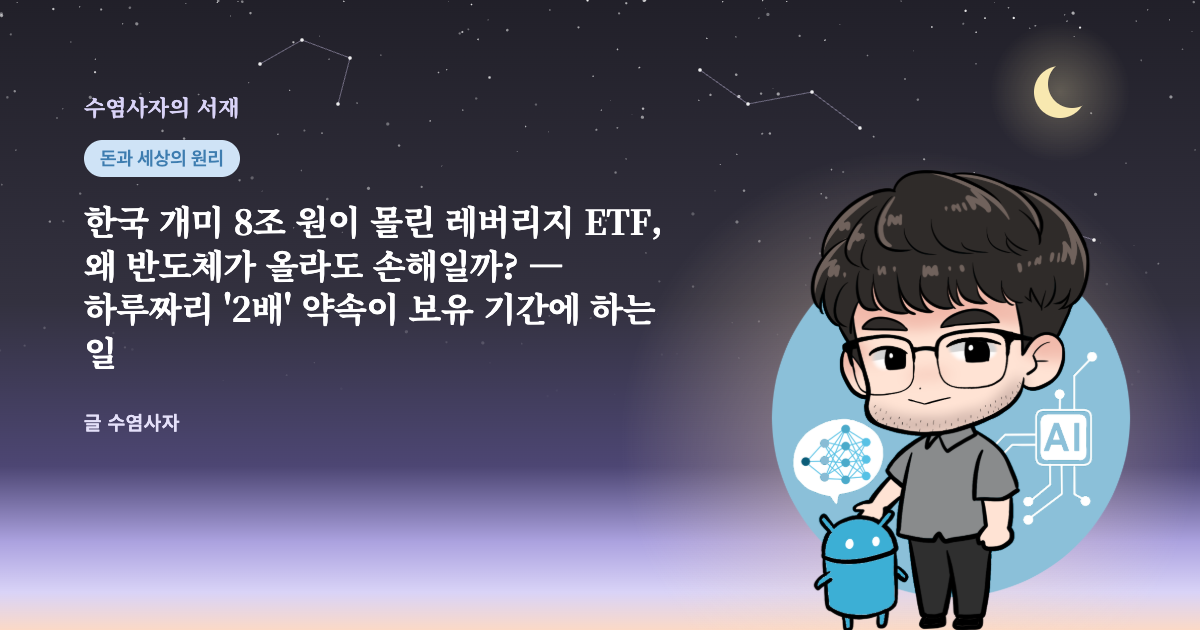
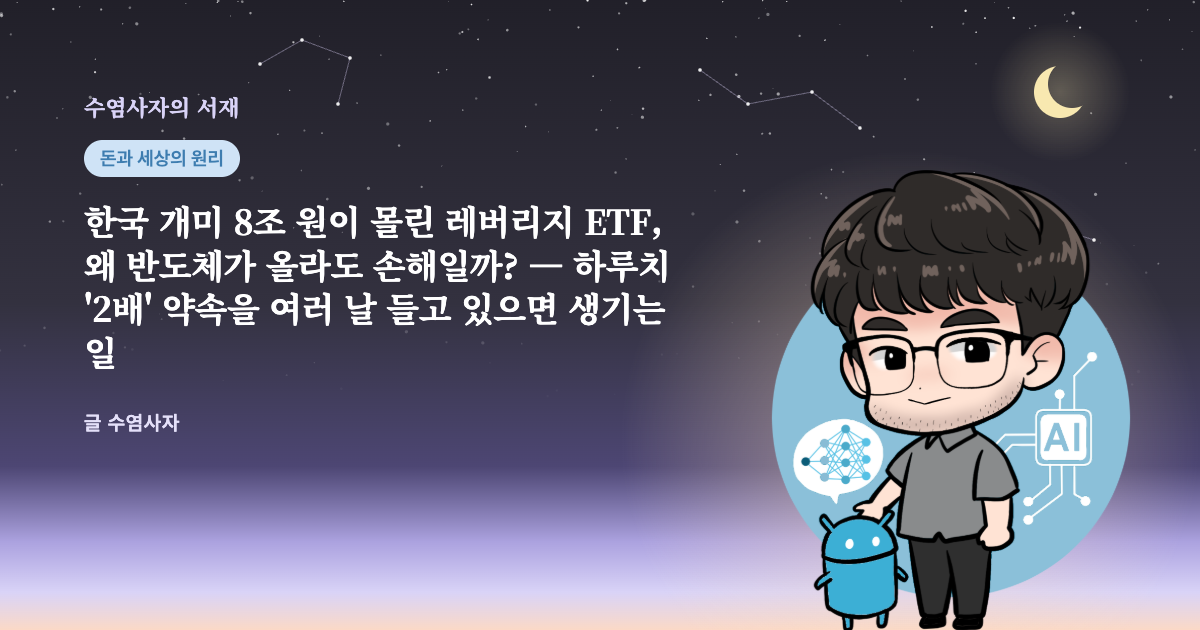
post: 레버리지 두 편 계산을 한 단계씩 풀어 쓰고 '길·경로'·'하루의 2배' 표현과 부제를 분명히 함
Claude-Session: https://claude.ai/code/session_01J36DQQsi1iZDy94NMGj8jH

Changed region(s): [[0.0617, 0.3921, 0.555, 0.5127]]

diff --git a/posts/leveraged-etf-daily/post.html b/posts/leveraged-etf-daily/post.html
@@ -3,7 +3,7 @@
 <head>
 <meta charset="utf-8">
 <meta name="viewport" content="width=device-width, initial-scale=1">
-<title>한국 개미 8조 원이 몰린 레버리지 ETF, 왜 반도체가 올라도 손해일까? — 하루짜리 '2배' 약속이 보유 기간에 하는 일</title>
+<title>한국 개미 8조 원이 몰린 레버리지 ETF, 왜 반도체가 올라도 손해일까? — 하루치 '2배' 약속을 여러 날 들고 있으면 생기는 일</title>
 <meta name="description" content="방향을 맞히고도 레버리지 ETF에서 돈을 잃는 이유는 무엇일까요? 2026년 한국 단일종목 레버리지 ETF 사태를 사례로, 일일 재조정이 개인의 계좌와 시장 전체를 어떻게 흔드는지 원 자료와 계산으로 풀어 봅니다.">
 <link rel="stylesheet" href="https://cdn.jsdelivr.net/gh/orioncactus/pretendard/dist/web/static/pretendard.css">
 <style>
@@ -57,20 +57,20 @@
 </head>
 <body>
 <article>
-<h1>한국 개미 8조 원이 몰린 레버리지 ETF, 왜 반도체가 올라도 손해일까? — 하루짜리 '2배' 약속이 보유 기간에 하는 일</h1>
+<h1>한국 개미 8조 원이 몰린 레버리지 ETF, 왜 반도체가 올라도 손해일까? — 하루치 '2배' 약속을 여러 날 들고 있으면 생기는 일</h1>
 <div class="meta">2026-11-01 · 약 11분 분량 · 글 수염사자</div>
 
 <p class="lead-quote">"SK하이닉스는 어차피 오를 거잖아요. 그럼 2배짜리를 사면 두 배로 버는 거죠."</p>
 <p>2026년 여름, 이 말은 한국에서 가장 많이 실행된 투자 논리였을 겁니다. 5월 27일 삼성전자와 SK하이닉스의 하루 수익률을 두 배로 따라가는 단일종목 레버리지 상품이 처음 상장됐고, 상장 후 12거래일 동안 개인투자자는 8조 2,000억 원어치를 순매수했습니다. 같은 기간 순매수의 92.7%가 개인이었습니다<sup class="fn"><a id="cite-1" href="#ref-1">[1]</a></sup>.</p>
 <p>방향도 맞았습니다. 코스피는 6월 19일 장중 9,385.59로 사상 최고치를 찍었습니다<sup class="fn"><a id="cite-2" href="#ref-2">[2]</a></sup>. 그런데 한 달도 안 돼 상황이 뒤집혔습니다. 골드만삭스 트레이딩 데스크는 7월 13일까지 120만 개가 넘는 개인 레버리지 계좌에 마진콜이 걸렸고, 그중 32만~36만 개는 강제로 청산됐다고 추정했습니다<sup class="fn"><a id="cite-3" href="#ref-3">[3]</a></sup>. 금융감독원 자료로는 상장일부터 8월 14일까지 이 상품들에서 개인이 본 손실이 실현·평가손을 합쳐 약 6조 3,000억 원이었습니다<sup class="fn"><a id="cite-4" href="#ref-4">[4]</a></sup>.</p>
 <p>그리고 결정적으로 — <strong>이들 상당수는 "반도체가 AI 붐의 중심"이라는 큰 그림에서 틀리지 않았습니다.</strong> 상품이 약속하는 '2배'가 무엇의 2배인지를 놓쳤을 뿐입니다.</p>
-<p>이 글은 레버리지 ETF를 사 봤거나 살까 고민 중인 분들을 위해 씁니다. 결론부터 말씀드리면, 이 상품의 2배는 '내 보유 기간의 2배'가 아니라 '오늘 하루의 2배'이고, 그 하루가 쌓이는 방식 때문에 같은 방향을 맞혀도 결과가 크게 달라집니다. 이 상품의 정식 이름에 답이 들어 있습니다. <strong>일일 재조정 레버리지 ETF(Daily Leveraged ETF)</strong>입니다.</p>
+<p>이 글은 레버리지 ETF를 사 봤거나 살까 고민 중인 분들을 위해 씁니다. 결론부터 말씀드리면, 이 상품이 약속하는 2배는 '내가 들고 있는 동안 주식이 오른 만큼의 2배'가 아닙니다. 약속은 '오늘 하루 주식이 오르내린 만큼의 2배'로 한정됩니다. 주식이 오늘 3% 오르면 상품은 오늘 6% 오르고, 내일 2% 내리면 상품은 내일 4% 내립니다. 그 약속은 매일 그날 하루치로 끝납니다. 그래서 여러 날 들고 있으면 하루치 2배 결과가 날마다 곱해져 쌓이는데, 그렇게 쌓인 합계는 주식이 그 기간 전체에 움직인 폭의 2배와 전혀 다른 숫자가 될 수 있습니다. 주식이 첫날 10% 내리고 둘째 날 10% 오르면 주식은 1%를 잃지만 상품은 4%를 잃습니다. 방향을 맞혀도 결과가 달라지는 이유가 여기에 있습니다. 이 상품의 정식 이름에 답이 들어 있습니다. <strong>일일 재조정 레버리지 ETF(Daily Leveraged ETF)</strong>입니다.</p>
 <p>금융 유튜버 패트릭 보일이 7월 18일 이 사태를 다룬 영상 「How to Be Right and Lose Everything」을 출발점으로 삼았고, 영상 이후 석 달 동안 벌어진 일도 함께 짚습니다.</p>
 
 <h2>'2배 상품'과 '2배 수익'은 다릅니다</h2>
-<p>질문을 바꿔 보겠습니다. "이 주식이 얼마나 오를까"가 아니라 "이 주식이 <em>어떤 길로</em> 오를까"입니다. 레버리지 ETF의 결과는 도착 지점보다 가는 길에 더 크게 좌우됩니다.</p>
-<p>미국 증권거래위원회(SEC)의 투자자 안내문에 나오는 예가 가장 간단합니다. 어떤 지수가 첫날 10% 떨어지고 둘째 날 10% 오르면, 이틀 뒤 지수는 1% 손실입니다. 이 지수를 하루 2배로 따라가는 ETF는 첫날 20% 떨어지고 둘째 날 20% 올라, 이틀 뒤 4% 손실입니다. 지수 손실의 2배가 아니라 4배입니다<sup class="fn"><a id="cite-5" href="#ref-5">[5]</a></sup>. 같은 안내문은 실제 사례도 듭니다. 넉 달 동안 지수가 2% 오르는 사이 그 지수의 2배 ETF는 6% 떨어졌습니다<sup class="fn"><a id="cite-5b" href="#ref-5">[5]</a></sup>.</p>
-<p>이틀로는 감이 덜 오니 열흘로 늘려 보겠습니다. 주가가 하루 10% 오르고 다음 날 10% 내리기를 열흘 동안 되풀이한다고 해 봅시다. 하루 10%씩 출렁이는 건 2026년 여름의 SK하이닉스에는 특별한 일이 아니었습니다.</p>
+<p>질문을 바꿔 보겠습니다. "이 주식이 얼마나 오를까"가 아니라 "이 주식이 거기까지 가는 동안 <em>날마다 어떻게 오르내릴까</em>"입니다. 같은 가격에 도착하더라도, 매일 조금씩 꾸준히 오른 경우와 크게 올랐다 크게 떨어지기를 되풀이하며 오른 경우는 전혀 다릅니다. 주식만 들고 있었다면 두 경우의 결과가 같지만, 레버리지 ETF는 도착한 가격보다 날마다 오르내린 순서와 폭에 더 크게 좌우되어 두 경우의 결과가 크게 벌어집니다.</p>
+<p>미국 증권거래위원회(SEC)의 투자자 안내문에 나오는 예가 가장 간단합니다. 어떤 지수가 첫날 10% 떨어지고 둘째 날 10% 오르면, 이틀 뒤 지수는 1% 손실입니다. 100원으로 따라가 보면 첫날 10원이 빠져 90원이 되고, 둘째 날은 그 90원의 10%인 9원이 붙어 99원이 됩니다. 100원이 아니라 99원이니 1% 손실입니다. 이 지수를 하루 2배로 따라가는 ETF는 첫날 20% 떨어지고 둘째 날 20% 오릅니다. 100원이 80원이 됐다가, 80원의 20%인 16원이 붙어 96원이 됩니다. 이틀 뒤 4% 손실입니다. 지수 손실의 2배가 아니라 4배입니다<sup class="fn"><a id="cite-5" href="#ref-5">[5]</a></sup>. 같은 안내문은 실제 사례도 듭니다. 넉 달 동안 지수가 2% 오르는 사이 그 지수의 2배 ETF는 6% 떨어졌습니다<sup class="fn"><a id="cite-5b" href="#ref-5">[5]</a></sup>.</p>
+<p>이틀로는 감이 덜 오니 열흘로 늘려 보겠습니다. 주가가 하루 10% 오르고 다음 날 10% 내리기를 열흘 동안 되풀이한다고 해 봅시다. 오르고 내리는 순서만 바뀌었을 뿐 방금 본 이틀짜리 계산과 같습니다. 100원이 110원이 됐다가 110원의 10%인 11원이 빠져 99원이 되니, 이틀마다 주식은 1%씩 줄고 2배 ETF는 4%씩 줄어듭니다. 그 이틀이 다섯 번 되풀이되면 열흘 뒤 주식은 약 5%, ETF는 약 18%가 줄어 있습니다. 하루 10%씩 출렁이는 건 2026년 여름의 SK하이닉스에는 특별한 일이 아니었습니다.</p>
 <figure>
   <svg xmlns="http://www.w3.org/2000/svg" viewBox="0 0 680 380" width="100%" role="img" aria-labelledby="t-1 d-1" font-family="'Pretendard','Noto Sans KR','Noto Sans CJK KR','Apple SD Gothic Neo',sans-serif">
 <title id="t-1">하루씩 ±10% 오가는 장, 열흘 뒤</title>
@@ -131,12 +131,14 @@
   <figcaption>기초 주식이 하루 +10%, 다음 날 −10%를 열흘 동안 되풀이하면 주식은 약 5% 줄지만, 매일 2배를 맞추는 ETF는 그 두 배인 10%가 아니라 약 18% 줄어듭니다. 그림: 직접 계산해 제작(수수료 제외).</figcaption>
 </figure>
 <p>비유하자면 레버리지 ETF는 <strong>매일 밤 0으로 돌아가는 계기판</strong>입니다. 오늘 2배를 정확히 맞추고 나면, 내일은 오늘 끝난 자리에서 다시 2배를 시작합니다. 어제까지의 손익은 기억하지 않습니다. 그러니 주가가 제자리로 돌아와도 ETF는 제자리로 돌아오지 않습니다.</p>
-<p>반대 경우도 있습니다. 주가가 5일 연속 3%씩 오르면 주식은 약 15.9% 오르고, 2배 ETF는 약 33.8% 올라 2배(31.9%)보다 조금 더 법니다. 직접 계산한 값입니다. <strong>한 방향으로 곧게 가는 장에서는 2배보다 더, 오르내리는 장에서는 2배보다 훨씬 덜</strong> 벌게 됩니다. 문제는 2배짜리를 살 만큼 출렁이는 주식이 곧게 가는 일은 드물다는 점입니다.</p>
+<p>반대 경우도 있습니다. 주가가 5일 연속 3%씩 오르면 주식은 약 15.9% 오릅니다. 3%씩 다섯 번이면 15%일 것 같지만, 어제 오른 돈에도 오늘 3%가 붙기 때문에 조금 더 됩니다. 같은 닷새 동안 2배 ETF는 하루 6%씩 올라 약 33.8%가 되어, 주식 수익의 2배(31.9%)보다 조금 더 법니다. 직접 계산한 값입니다. <strong>한 방향으로 곧게 가는 장에서는 2배보다 더, 오르내리는 장에서는 2배보다 훨씬 덜</strong> 벌게 됩니다. 문제는 2배짜리를 살 만큼 출렁이는 주식이 곧게 가는 일은 드물다는 점입니다.</p>
 
 <h2>왜 생기나 — 매일 저녁 '오르면 사고 내리면 파는' 기계</h2>
 <p>교과서적인 답은 "복리 때문"입니다. 틀린 말은 아닌데, 이것만으로는 시장 전체가 왜 흔들렸는지까지 설명되지 않습니다. 열쇠는 이 펀드가 2배를 유지하는 방법에 있습니다.</p>
-<p>자기 돈 100에 주식 노출 200을 가진 2배 펀드를 생각해 보겠습니다. 주가가 10% 오르면 노출은 220, 펀드 가치는 120이 되어 비율이 1.83배로 떨어집니다. 내일도 2배를 맞추려면 오늘 장 마감에 20어치를 더 사야 합니다. 주가가 10% 내리면 노출은 180, 펀드 가치는 80이라 비율이 2.25배로 올라가고, 20어치를 팔아야 합니다. <strong>오르면 사고, 내리면 파는 방향이 계산식 자체에 들어 있습니다.</strong></p>
-<p>민더 쳉과 아난스 마다반은 2009년 논문에서 이 매일의 재조정이 장 마감 무렵 변동성을 키울 수 있고, 수익 구조 안에 경로에 따라 값이 달라지는 옵션 같은 성질이 숨어 있어 장기 보유자에게는 가치를 깎을 수 있다고 분석했습니다. 그래서 거래 비용까지 감안하면 장기 투자자에게 맞지 않는 상품이라는 결론을 냈습니다<sup class="fn"><a id="cite-6" href="#ref-6">[6]</a></sup>.</p>
+<p>자기 돈 100원을 투자한다고 가정해 보겠습니다. 2배 펀드는 이 100원으로 200원어치 주식을 들고 있어야 합니다. 모자라는 100원은 펀드가 빌려 온 돈이라고 치겠습니다. 실제 상품은 돈을 빌리는 대신 스와프 같은 파생상품으로 같은 효과를 내지만, 산수는 똑같습니다. 그러니 출발점은 이렇습니다. 주식 200원어치, 그중 내 돈 100원, 빚 100원. 주식 200원을 내 돈 100원으로 나누면 2배, 이것이 펀드가 매일 저녁 다시 맞춰야 하는 비율입니다.</p>
+<p>주가가 10% 올랐다고 해 봅시다. 200원어치 주식은 220원어치가 됩니다. 오른 20원은 전부 내 몫입니다. 빚 100원은 주가가 올라도 100원 그대로이기 때문입니다. 그래서 내 돈은 100원에서 120원이 됩니다. 이제 비율을 다시 재 보면 주식 220원을 내 돈 120원으로 나눈 약 1.83배, 2배에서 모자랍니다. 내일도 2배를 맞추려면 주식이 내 돈 120원의 2배인 240원어치가 되어야 하는데, 지금은 220원어치뿐이니 20원어치가 부족합니다. 펀드는 오늘 장 마감에 20원어치 주식을 더 사야 합니다. 주가가 오른 날 사는 겁니다.</p>
+<p>반대로 주가가 10% 내렸다고 해 봅시다. 200원어치 주식은 180원어치가 됩니다. 줄어든 20원도 전부 내 몫입니다. 빚은 여전히 100원이니 내 돈은 100원에서 80원이 됩니다. 비율은 주식 180원을 내 돈 80원으로 나눈 2.25배, 이번에는 2배를 넘칩니다. 2배로 돌려놓으려면 주식이 내 돈 80원의 2배인 160원어치여야 하는데, 지금은 180원어치이니 20원어치가 남습니다. 펀드는 장 마감에 20원어치를 팔아야 합니다. 주가가 내린 날 파는 겁니다. <strong>오르면 사고, 내리면 파는 방향이 계산식 자체에 들어 있습니다.</strong></p>
+<p>민더 쳉과 아난스 마다반은 2009년 논문에서 이 매일의 재조정이 장 마감 무렵 변동성을 키울 수 있고, 수익 구조 안에 날마다 오르내린 순서와 폭에 따라 값이 달라지는 옵션 같은 성질이 숨어 있어 장기 보유자에게는 가치를 깎을 수 있다고 분석했습니다. 그래서 거래 비용까지 감안하면 장기 투자자에게 맞지 않는 상품이라는 결론을 냈습니다<sup class="fn"><a id="cite-6" href="#ref-6">[6]</a></sup>.</p>
 <div class="key"><span class="label">핵심 —</span> 일일 레버리지 ETF의 손실은 운이 나빠서가 아니라 설계에서 나옵니다. 매일 2배를 다시 맞추기 때문에 출렁일수록 손실이 쌓이고, 그 재조정 매매가 다시 출렁임을 키웁니다.</div>
 <p>출렁임이 수익을 갉아먹는 원리, 이른바 변동성 끌림은 앞선 글 「방향을 맞힌 450억 달러 AI 펀드는 왜 한 달 만에 무너졌을까?」에서 따로 다뤘습니다. 이 글에서는 그 원리가 한 나라 주식시장 전체에 어떻게 번졌는지를 보겠습니다.</p>
 
@@ -251,7 +253,7 @@
   </tbody>
 </table>
 <div class="key"><span class="label">핵심 —</span> 이 표에서 읽어야 할 것은 '무엇을 살까'가 아닙니다. 같은 SK하이닉스라도 주식으로 들고 있는 것과 일일 2배 상품을 빚으로 들고 있는 것은 전혀 다른 내기입니다.</div>
-<div class="caution">미리 말씀드려야 할 게 있습니다. 위 열흘짜리 그림과 5일 연속 상승 예시는 원리를 보이려고 만든 가상의 경로입니다. 실제 상품은 운용 보수, 스와프 비용, 시장 가격과 순자산가치의 차이 때문에 계산보다 조금씩 더 불리하게 움직입니다.</div>
+<div class="caution">미리 말씀드려야 할 게 있습니다. 위 열흘짜리 그림과 5일 연속 상승 예시는 원리를 보이려고 지어낸 가상의 오르내림입니다. 실제 상품은 운용 보수, 스와프 비용, 시장 가격과 순자산가치의 차이 때문에 계산보다 조금씩 더 불리하게 움직입니다.</div>
 
 <section class="expert-note">
   <h2>필자 한마디</h2>

diff --git a/posts/volatility-drag/post.html b/posts/volatility-drag/post.html
@@ -62,7 +62,7 @@
 
 <p class="lead-quote">"AI는 결국 오른다잖아요. 그러면 빚을 내서라도 더 사는 게 맞지 않나요?"</p>
 <p>AI 이야기가 나오는 자리라면 한 번쯤 들어 봤을 말입니다. 틀린 말처럼 들리지도 않습니다. 오를 게 확실하다면 더 많이 사는 게 이득이고, 더 많이 사려면 돈을 빌리면 되니까요.</p>
-<p>2026년 여름, 이 논리를 가장 크게, 가장 정교하게 실행한 사람이 있었습니다. 2024년 6월 AI의 미래를 다룬 165쪽짜리 에세이 「Situational Awareness」로 이름을 알린 레오폴드 아셴브레너입니다. 에세이 제목을 그대로 딴 그의 헤지펀드는 2026년 7월 초 운용 자산이 약 450억 달러까지 불었습니다<sup class="fn"><a id="cite-1" href="#ref-1">[1]</a></sup>. 7월 24일 투자자 편지에 적힌 상반기 순수익은 439%였습니다<sup class="fn"><a id="cite-2" href="#ref-2">[2]</a></sup>. 1억 원을 넣었다면 반년 만에 5억 3,900만 원이 됐다는 뜻입니다.</p>
+<p>2026년 여름, 이 논리를 가장 크게, 가장 정교하게 실행한 사람이 있었습니다. 2024년 6월 AI의 미래를 다룬 165쪽짜리 에세이 「Situational Awareness」로 이름을 알린 레오폴드 아셴브레너입니다. 에세이 제목을 그대로 딴 그의 헤지펀드는 2026년 7월 초 운용 자산이 약 450억 달러까지 불었습니다<sup class="fn"><a id="cite-1" href="#ref-1">[1]</a></sup>. 7월 24일 투자자 편지에 적힌 상반기 순수익은 439%였습니다<sup class="fn"><a id="cite-2" href="#ref-2">[2]</a></sup>. 수익 439%는 원금에 더해 원금의 4.39배를 더 벌었다는 뜻이니, 돈이 5.39배가 된 셈입니다. 1억 원을 넣었다면 반년 만에 5억 3,900만 원이 됐다는 뜻입니다.</p>
 <p>그리고 7월 한 달 동안 펀드는 가치의 약 3분의 2를 잃었습니다. 자기 돈 1달러당 약 3달러를 빌려 투자한 상태였습니다<sup class="fn"><a id="cite-3" href="#ref-3">[3]</a></sup>. 같은 시기 미국 S&amp;P 500 지수는 사상 최고치 근처에 머물러 있었습니다<sup class="fn"><a id="cite-4" href="#ref-4">[4]</a></sup>.</p>
 <p>그리고 결정적으로 — <strong>AI가 결국 크게 성장한다는 그의 방향 판단이 틀렸다고 단정할 근거는 아직 없습니다.</strong> 방향을 맞혀도 망할 수 있다는 것, 이 글은 바로 그 이야기입니다.</p>
 <p>이 글은 "확신이 있으면 크게 걸어도 되지 않나"라고 생각해 본 분들을 위해 씁니다. 결론부터 말씀드리면, 수익률이 들쭉날쭉할수록 내 돈은 평균 수익률보다 느리게 불어나고, 빚은 그 격차를 제곱으로 키웁니다. 이 현상의 이름이 <strong>변동성 끌림(Volatility Drag)</strong>입니다.</p>
@@ -73,7 +73,7 @@
 <p>이유는 단순합니다. 수익률의 %는 언제나 '지금 남아 있는 돈'에 붙습니다. 100만 원이 50% 떨어지면 50만 원입니다. 여기서 50% 오르면 75만 원이지, 100만 원이 아닙니다. 원금을 되찾으려면 100%, 두 배가 올라야 합니다. <strong>손실은 같은 크기의 이익이 메울 수 있는 것보다 언제나 더 깊은 구멍을 팝니다.</strong></p>
 <p>그래서 금융에서는 평균을 두 가지로 구분합니다. 해마다의 수익률을 더해서 햇수로 나눈 <strong>산술 평균</strong>, 그리고 실제로 돈이 복리로 불어난 속도인 <strong>기하 평균</strong>(연평균 복리 성장률)입니다. 둘의 관계는 대략 이렇습니다.</p>
 <div class="key"><span class="label">공식 하나 —</span> 실제 복리 성장률 ≈ 산술 평균 수익률 − (변동성²) ÷ 2. 여기서 변동성은 수익률이 평균에서 얼마나 출렁이는지를 나타내는 표준편차입니다. 뒤에 빼는 항이 바로 '변동성 끌림', 출렁임 자체가 매기는 세금입니다.</div>
-<p>실제 데이터로도 맞아떨어집니다. 2007~2016년 S&amp;P 500의 연 수익률 산술 평균은 8.75%였지만, 실제 연평균 복리 수익률은 6.94%였습니다. 같은 기간 수익률 분산 3.56%의 절반인 1.78%포인트를 빼면 6.97%가 나와, 실제 값과 거의 같습니다<sup class="fn"><a id="cite-5" href="#ref-5">[5]</a></sup>. 1만 달러를 넣었다면 산술 평균으로 계산한 기대 금액은 약 2만 3,100달러였지만 실제로 손에 쥔 돈은 약 1만 9,600달러였습니다<sup class="fn"><a id="cite-5b" href="#ref-5">[5]</a></sup>.</p>
+<p>실제 데이터로도 맞아떨어집니다. 2007~2016년 S&amp;P 500의 연 수익률 산술 평균은 8.75%였지만, 실제 연평균 복리 수익률은 6.94%였습니다. 같은 기간 수익률의 분산, 즉 변동성을 제곱한 값은 3.56%였습니다. 공식대로 그 절반인 1.78%포인트를 8.75%에서 빼면 6.97%가 나와, 실제 값 6.94%와 거의 같습니다<sup class="fn"><a id="cite-5" href="#ref-5">[5]</a></sup>. 1만 달러를 넣었다면, 해마다 8.75%씩 10년 불어났을 때의 기대 금액은 약 2만 3,100달러였지만 실제로 손에 쥔 돈은 6.94%씩 10년 불어난 약 1만 9,600달러였습니다<sup class="fn"><a id="cite-5b" href="#ref-5">[5]</a></sup>.</p>
 <p>비유하자면 이렇습니다. 평균 수익률은 지도 위에 그은 직선 거리이고, 복리 성장률은 실제로 걸어간 산길입니다. 길이 구불구불할수록, 즉 변동성이 클수록 직선 거리와 실제로 도착하는 지점 사이가 벌어집니다.</p>
 
 <h2>평균은 플러스인데 왜 돈이 줄어들까</h2>
@@ -112,13 +112,13 @@
 </svg>
   <figcaption>앞면 +50%, 뒷면 −40%인 동전을 앞·뒤·앞·뒤 순서로 던지면 100만 원이 150만, 90만, 135만, 81만 원으로 줄어듭니다. 평균은 +5%인데도 한 번 이기고 한 번 질 때마다 10%씩 줄어듭니다. 그림: 직접 계산해 제작.</figcaption>
 </figure>
-<p>앞과 뒤가 반반씩 나오는 '보통의' 경로에서 돈은 한 번에 약 5.1%씩 줄어듭니다(1.5 × 0.6 = 0.9이고, 0.9의 제곱근은 약 0.949). 이 게임의 평균이 +5%로 높게 나오는 이유는, 앞면이 연달아 터지는 드문 행운의 경로가 평균을 끌어올리기 때문입니다. 대부분의 사람이 실제로 걷는 길은 그 아래에 있습니다.</p>
-<p>여기서 한 가지, 꼭 짚고 넘어가겠습니다. 투자 설명에 나오는 '기대수익'은 대개 이 산술 평균입니다. 하지만 한 사람이 받는 건 평균이 아니라 자기가 걷게 된 단 하나의 경로입니다. 변동성이 커질수록 평균과 '가장 흔한 결과(중앙값)' 사이의 거리가 벌어집니다.</p>
+<p>왜 이렇게 되는지 따라가 보겠습니다. 앞면이 나오면 돈이 1.5배, 뒷면이 나오면 0.6배가 됩니다. 앞과 뒤가 한 번씩 나오면 1.5 × 0.6 = 0.9배, 두 번 던질 때마다 10%가 줄어드는 겁니다. 이것을 한 번당으로 고르게 나누면 약 5.1%씩입니다. 0.949를 두 번 곱하면 약 0.9가 되기 때문입니다. 이렇게 던질 때마다 내 돈이 오르내린 순서와 폭을 앞으로 '경로'라고 부르겠습니다. 앞과 뒤가 반반씩 나오는 '보통의' 경로에서 돈은 한 번에 약 5.1%씩 줄어듭니다. 이 게임의 평균이 +5%로 높게 나오는 이유는, 앞면이 연달아 터지는 드문 행운의 경로가 평균을 끌어올리기 때문입니다. 대부분의 사람이 실제로 걷는 길은 그 아래에 있습니다.</p>
+<p>여기서 한 가지, 꼭 짚고 넘어가겠습니다. 투자 설명에 나오는 '기대수익'은 대개 이 산술 평균입니다. 하지만 한 사람이 받는 건 평균이 아니라 자기 돈이 실제로 겪은 단 하나의 경로, 즉 자기에게 실제로 나온 앞뒤 순서의 결과입니다. 변동성이 커질수록 평균과 '가장 흔한 결과(중앙값)' 사이의 거리가 벌어집니다.</p>
 
 <h2>빚은 수익을 곱하기로, 끌림을 제곱으로 키웁니다</h2>
-<p>이제 레버리지를 얹어 보겠습니다. 레버리지는 빚을 내 투자 규모를 키우는 것입니다. 자기 돈 1에 빚 3을 더하면 4배 레버리지이고, 자산이 10% 움직이면 내 돈은 40% 움직입니다.</p>
+<p>이제 레버리지를 얹어 보겠습니다. 레버리지는 빚을 내 투자 규모를 키우는 것입니다. 자기 돈 100만 원에 빚 300만 원을 더해 400만 원어치 자산을 사면 4배 레버리지입니다. 자산이 10% 오르면 400만 원어치는 440만 원어치가 되고, 오른 40만 원은 전부 내 몫입니다. 빚 300만 원은 그대로이기 때문입니다. 내 돈이 100만 원에서 140만 원이 됐으니 40% 번 셈입니다. 반대로 자산이 10% 내리면 40만 원이 사라져 내 돈은 60만 원, 40%를 잃습니다. 자산이 10% 움직일 때 내 돈은 40% 움직입니다.</p>
 <p>공식에 넣어 보면 문제가 드러납니다. 레버리지를 L배로 올리면 기대수익도 L배가 됩니다. 그런데 변동성도 L배가 되니, 변동성의 제곱인 끌림은 <strong>L²배</strong>가 됩니다. 2배로 빌리면 수익은 2배, 끌림은 4배. 4배로 빌리면 수익은 4배, 끌림은 16배입니다.</p>
-<p>패트릭 보일이 이 사건을 다룬 영상에서 쓴 가정치로 계산해 보겠습니다. 기대수익 연 15%, 변동성 40%인 AI 주식 바구니가 있다고 합시다. 끌림은 0.4² ÷ 2 = 8%포인트, 실제 복리 성장률은 연 7%입니다. 꽤 좋은 투자입니다. 이걸 4배 레버리지로 굴리면 기대수익은 60%로 뛰지만 끌림은 128%포인트가 되어, 복리 성장률은 <strong>연 −68%</strong>가 됩니다.</p>
+<p>패트릭 보일이 이 사건을 다룬 영상에서 쓴 가정치로 계산해 보겠습니다. 기대수익 연 15%, 변동성 40%인 AI 주식 바구니가 있다고 합시다. 끌림은 0.4² ÷ 2 = 8%포인트이고, 기대수익 15%에서 이 8%포인트를 빼면 실제 복리 성장률은 연 7%입니다. 꽤 좋은 투자입니다. 이걸 4배 레버리지로 굴리면 기대수익은 4배인 60%로 뛰지만, 변동성도 4배인 160%가 됩니다. 끌림은 1.6² ÷ 2 = 128%포인트, 처음 8%포인트의 16배입니다. 60%에서 128%포인트를 빼면 복리 성장률은 <strong>연 −68%</strong>가 됩니다.</p>
 <figure>
   <svg xmlns="http://www.w3.org/2000/svg" viewBox="0 0 680 380" width="100%" role="img" aria-labelledby="t-3 d-3" font-family="'Pretendard','Noto Sans KR','Noto Sans CJK KR','Apple SD Gothic Neo',sans-serif">
 <title id="t-3">레버리지를 올릴수록 복리 성장률은?</title>
@@ -196,7 +196,7 @@
   <figcaption>진짜 롱숏 헤지는 시장 전체가 흔들려도 양쪽 손익이 서로 상쇄되지만, 롱과 숏을 같은 전제로 고르면 그 전제가 흔들리는 순간 양쪽에서 동시에 돈을 잃습니다.</figcaption>
 </figure>
 <p>문제는 롱과 숏이 모두 'AI가 곧, 크게 온다'는 하나의 전제에 걸려 있었다는 점입니다. 시장이 그 속도를 의심하기 시작한 7월 말, 그가 산 AI 종목들은 대부분 30% 넘게 떨어졌고 공매도한 소프트웨어 기업들은 비슷한 폭으로 올랐습니다<sup class="fn"><a id="cite-8b" href="#ref-8">[8]</a></sup>. 헤지의 두 다리가 같은 날 함께 꺾인 겁니다. 변동성을 줄여야 할 장치가 오히려 한 방향의 변동성을 키운 셈입니다.</p>
-<p>여기에 약 4배의 레버리지가 얹혀 있었습니다. 7월 한 달 손실은 약 67%였는데, 상반기에 5.39배가 된 돈이 3분의 1만 남으니 연초 대비로는 여전히 약 +78%였습니다(5.39 × 0.33 ≈ 1.78). 보도된 '연초 대비 약 80% 수익'과 맞아떨어집니다<sup class="fn"><a id="cite-3b" href="#ref-3">[3]</a></sup>. 숫자만 보면 아직 남는 장사처럼 보이지만, 고점의 돈이 다시 원래대로 돌아가려면 약 200%를 벌어야 합니다.</p>
+<p>여기에 약 4배의 레버리지가 얹혀 있었습니다. 7월 한 달 손실은 약 67%였는데, 상반기에 5.39배가 된 돈이 3분의 1만 남으니 연초 대비로는 여전히 약 +78%였습니다(5.39 × 0.33 ≈ 1.78). 보도된 '연초 대비 약 80% 수익'과 맞아떨어집니다<sup class="fn"><a id="cite-3b" href="#ref-3">[3]</a></sup>. 숫자만 보면 아직 남는 장사처럼 보이지만, 고점의 돈이 다시 원래대로 돌아가려면 약 200%를 벌어야 합니다. 3분의 1만 남은 돈이 다시 3배가 되어야 하니, 두 배를 더 벌어야 한다는 뜻입니다.</p>
 
 <h3>게임에서 쫓겨나면 회복을 받을 수 없습니다</h3>
 <p>빚을 낸 투자가 무서운 진짜 이유는 따로 있습니다. 가격이 떨어지면 돈을 빌려준 쪽이 담보를 더 넣으라고 요구합니다. 이게 <strong>마진콜</strong>입니다. 못 채우면 바닥에서 강제로 팔아야 하고, 그 매도가 가격을 더 끌어내립니다.</p>
